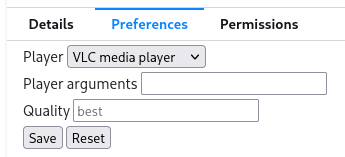
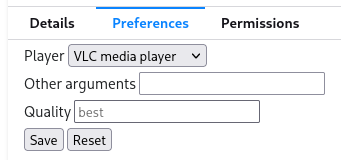
Player arguments preference renamed to Other arguments. Minor code cleanup

diff --git a/extension/background.js b/extension/background.js
@@ -20,28 +20,29 @@ browser.menus.create
   }
 );
 
+const nativeMessagingHostName = "streamlink_handoff_host";
+
 browser.menus.onClicked.addListener(info =>
+{
+  browser.storage.local.get()
+  .then(storageValues =>
   {
-    browser.storage.local.get()
-      .then(storageValues =>
-      {
-        let linkUrl = info.linkUrl;
-        if (storageValues.player) {var player = "--player=" + storageValues.player};
-        let quality = storageValues.quality || "best";
-        let playerArgs = storageValues.playerArgs;
+    let linkUrl = info.linkUrl;
+    if (storageValues.player) {var player = "--player=" + storageValues.player};
+    let quality = storageValues.quality || "best";
+    let otherArgs = storageValues.otherArgs;
 
-        let streamlinkArguments = [player, playerArgs, linkUrl, quality].join(" ").trim();
+    let streamlinkArguments = [player, otherArgs, linkUrl, quality].join(" ").trim();
 
-        if (info.menuItemId == "streamlink-handoff")
-        {
-          browser.runtime.sendNativeMessage("streamlink_handoff_host", streamlinkArguments);
-        }
+    if (info.menuItemId == "streamlink-handoff")
+    {
+      browser.runtime.sendNativeMessage(nativeMessagingHostName, streamlinkArguments);
+    }
 
-        if (info.menuItemId == "streamlink-handoff-hls")
-        {
-          streamlinkArguments = ["--player-passthrough=hls", streamlinkArguments].join(" ");
-          browser.runtime.sendNativeMessage("streamlink_handoff_host", streamlinkArguments);
-        }
-      });
-  }
-);
+    if (info.menuItemId == "streamlink-handoff-hls")
+    {
+      streamlinkArguments = ["--player-passthrough=hls", streamlinkArguments].join(" ");
+      browser.runtime.sendNativeMessage(nativeMessagingHostName, streamlinkArguments);
+    }
+  });
+});

diff --git a/extension/options.js b/extension/options.js
@@ -1,35 +1,38 @@
-const options = ["player", "playerArgs", "quality"];
+const options = ["player", "otherArgs", "quality"];
 
 function restoreOptions()
 {
   options.forEach(optionKey => 
+  {
+    browser.storage.local.get(optionKey)
+    .then(storageItem =>
     {
-      browser.storage.local.get(optionKey)
-        .then(storageItem =>
-        {
-          if (storageItem[optionKey]){document.querySelector("#"+optionKey).value = storageItem[optionKey]};
-        })
+      if (storageItem[optionKey])
+      {
+        document.querySelector("#"+optionKey).value = storageItem[optionKey];
+      }
     });
-};
+  });
+}
 
 function saveOptions(event)
 {
   event.preventDefault();
   
   options.forEach(optionKey =>
+  {
+    let optionValue = document.querySelector("#"+optionKey).value;
+    
+    if (optionValue)
     {
-      let optionValue = document.querySelector("#"+optionKey).value;
-      
-      if (optionValue)
-      {
-        browser.storage.local.set({[optionKey]: optionValue});
-      }
-      else
-      {
-        browser.storage.local.remove(optionKey);
-      }
-    });
-};
+      browser.storage.local.set({[optionKey]: optionValue});
+    }
+    else
+    {
+      browser.storage.local.remove(optionKey);
+    }
+  });
+}
 
 function resetOptions(event)
 {
@@ -43,7 +46,7 @@ function resetOptions(event)
   {
     event.preventDefault();
   }
-};
+}
 
 document.addEventListener("DOMContentLoaded", restoreOptions);
 document.querySelector("form").addEventListener("submit", saveOptions);

diff --git a/extension/options.html b/extension/options.html
@@ -3,7 +3,7 @@
   <head>
     <meta charset="UTF-8">
     <title>Streamlink Handoff Preferences</title>
-    <style>form label {display: block; padding-bottom: 4px;} a {padding-top: 15px;}</style>
+    <style>form label {display: block; padding-bottom: 5px;} a {padding-top: 15px;}</style>
   </head>
   <body>
     <form>
@@ -14,7 +14,7 @@
           <option value="mpv">mpv</option>
         </select>
       </label>
-      <label>Player arguments <input type="text" id="playerArgs"></label>
+      <label>Other arguments <input type="text" id="otherArgs"></label>
       <label>Quality <input type="text" id="quality" placeholder="best"></label>
       <button type="submit">Save</button>
       <input type="reset">
